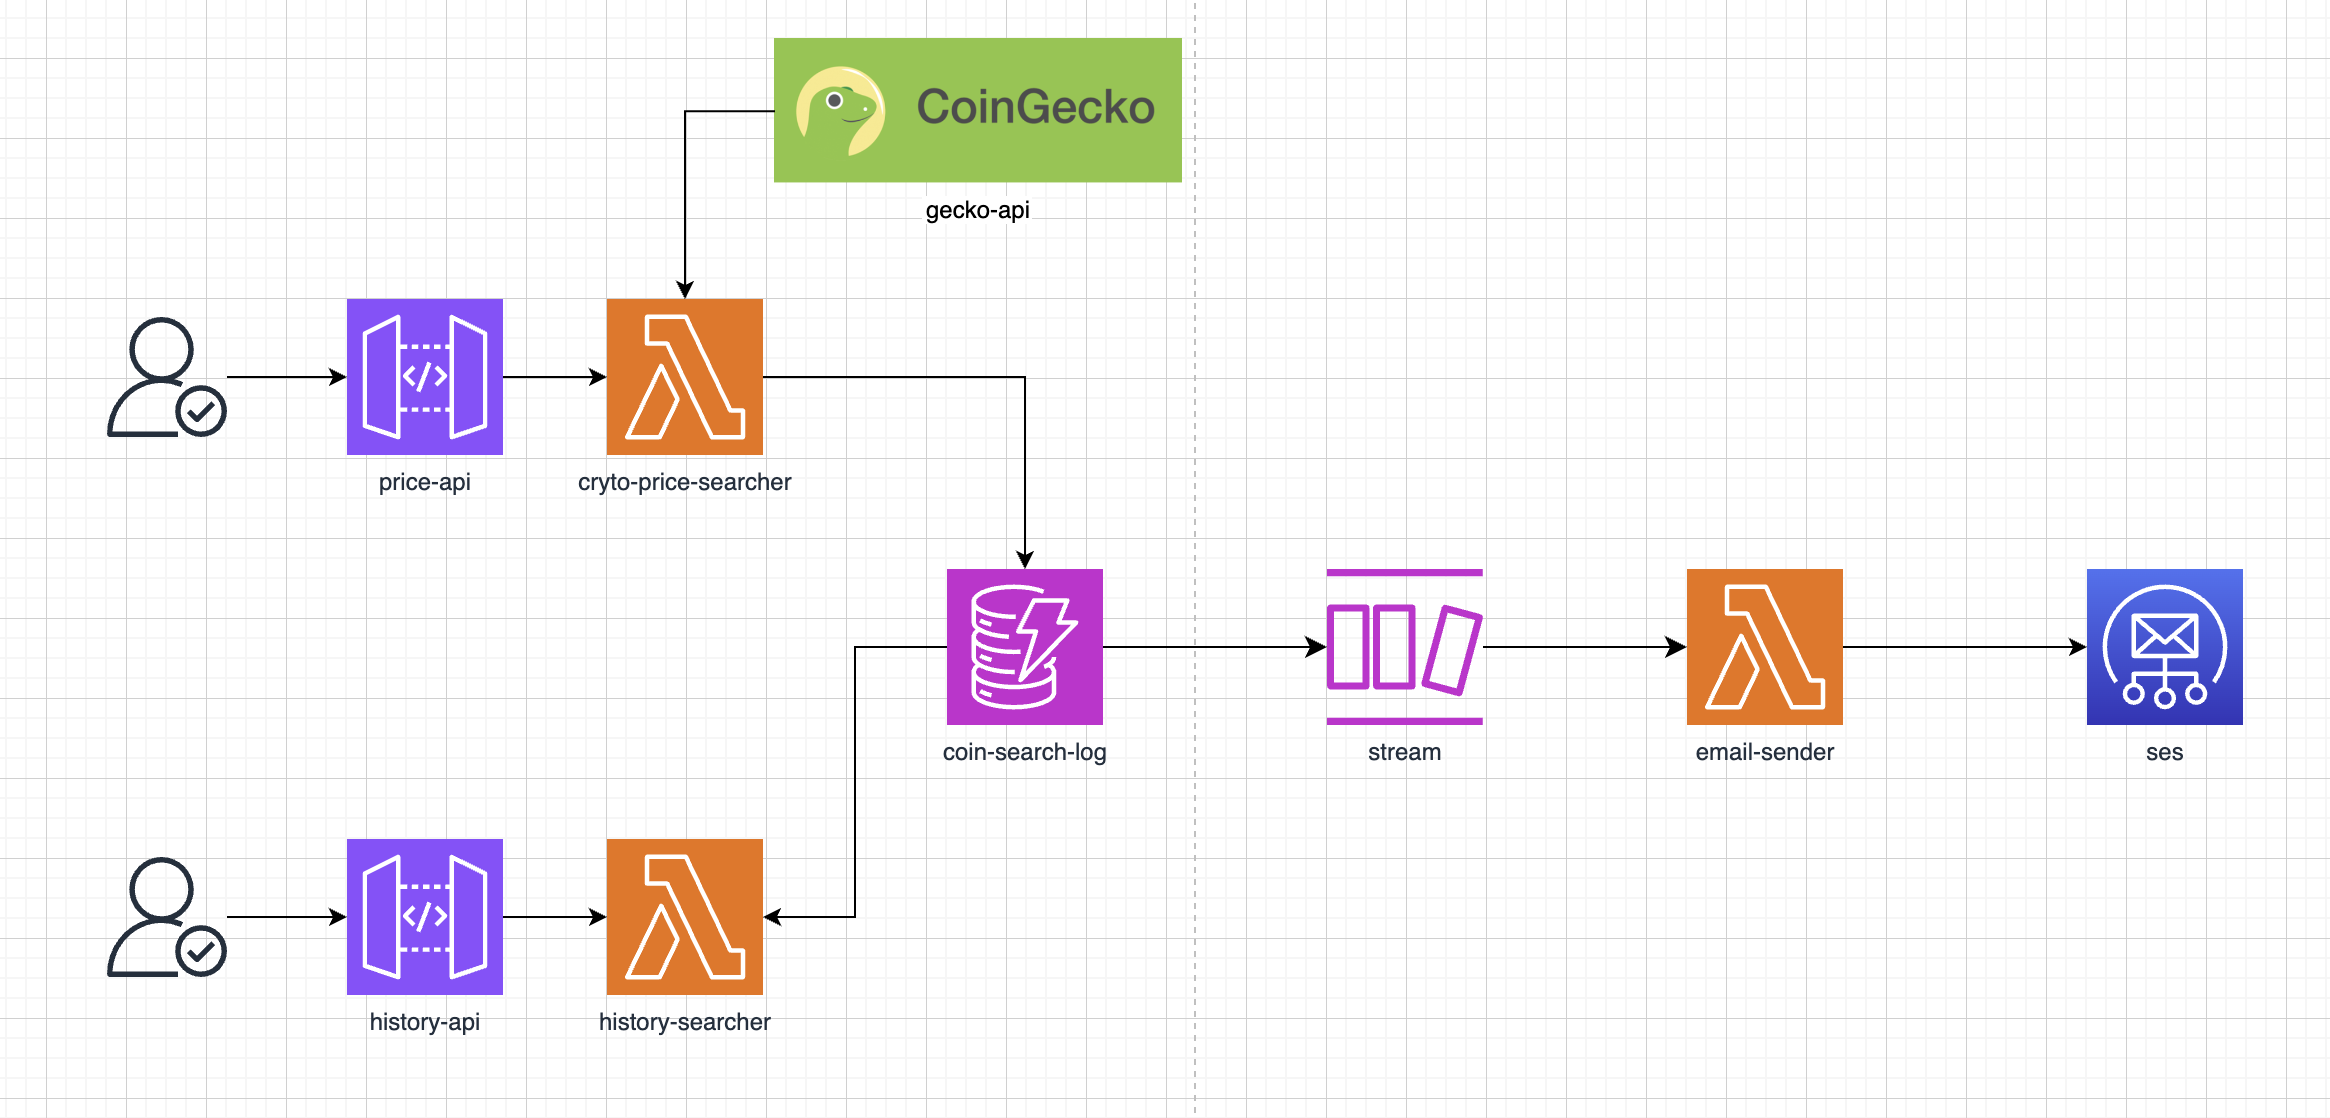
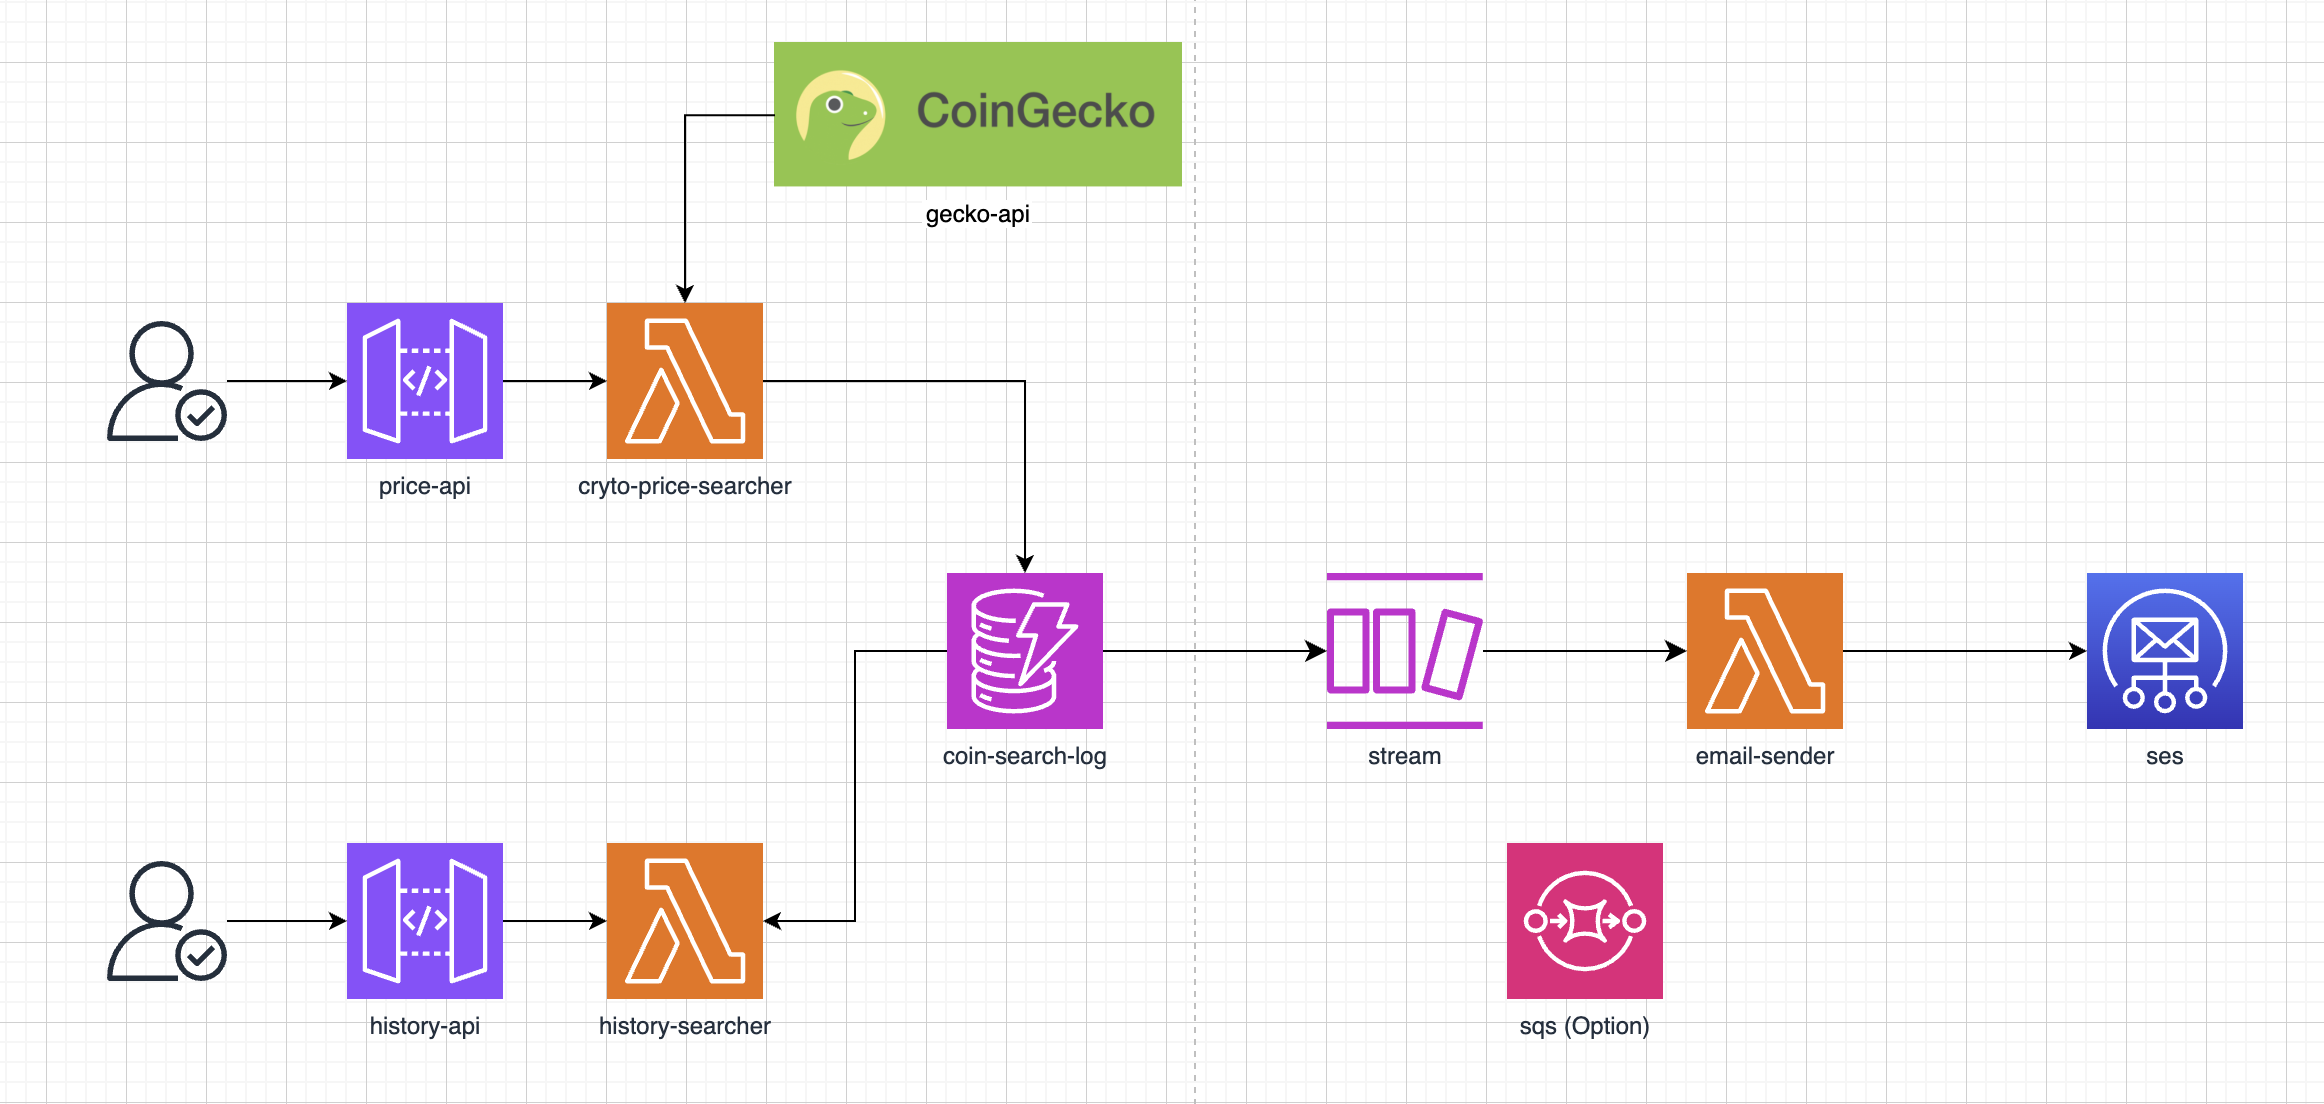
feat: update progress in readme

diff --git a/README.md b/README.md
@@ -16,9 +16,9 @@ Microservice 2: Search History
 - ✅ (Mandatory) Microservices must be deployed 100% serverless on AWS. 
 - ✅ (Mandatory) All code implementation must be using NodeJS.
 - ✅ (Mandatory) All code must be version controlled using git and GitHub. 
-- 🕒 (Optional) CICD using any tool (preferably GitHub Actions). 
-- 🕒 (Optional) Infrastructure as Code using any tool (preferably AWS SAM). 
-The architectural design of the API is open to the candidate. 
+- ✅ (Optional) CICD using any tool (preferably GitHub Actions). 
+- 🔄 (Optional) Infrastructure as Code using any tool (preferably AWS SAM). 
+- The architectural design of the API is open to the candidate. 
 
 ### III. Resources: 💡
 - 🧰 Cryptocurrency data API: https://www.coingecko.com/en/api/documentation
@@ -140,4 +140,5 @@ The architectural design of the API is open to the candidate.
 ## Another Option 🛠
 ![architecture](./images/another-architech.png)
 
-Lambda -> dynamodb -> dynamodb stream -> lambda -> ses
+1. Lambda -> dynamodb -> dynamodb stream -> lambda -> ses
+2. Lambda -> dynamodb -> dynamodb stream -> queue -> lambda -> ses
